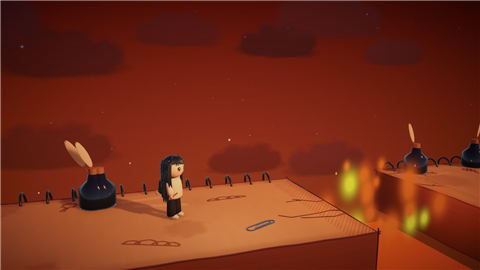
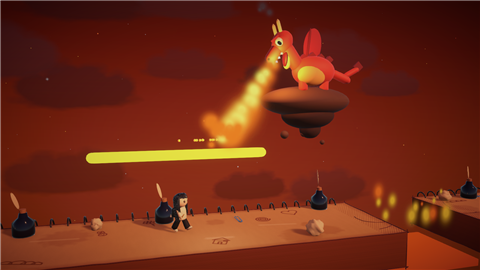
صفحة النار: تنينين على صخور طايرة ينفخون نار تلحق رويدا، وترسمين فوقها درع يصدها

diff --git a/Assets/Scripts/NewMechanics.cs b/Assets/Scripts/NewMechanics.cs
@@ -7,6 +7,7 @@ public static class NewFeatures
     public static void Build(Transform root, LevelData data, GameManager gm, System.Random rng)
     {
         foreach (Vector4 f in data.firePits) FirePit.Create(root, f, gm);
+        foreach (Vector4 d in data.dragons) Dragon.Create(root, d, gm);
         foreach (Vector3 p in data.pins) PinRow.Create(root, p, gm);
         foreach (Vector3 f in data.fans) FanZone.Create(root, f, gm);
         foreach (Vector4 p in data.portals) Portal.Create(root, new Vector3(p.x, p.y, 0f), new Vector3(p.z, p.w, 0f));
@@ -683,4 +684,264 @@ public class FragileInk : MonoBehaviour
         gm.Sound.PlayPoof();
         Destroy(gameObject);
     }
+}
+
+// ---------- التنين ----------
+
+// تنين شخبطة على صخرة طايرة: يتنفس، يرجع راسه، وينفخ نار مايلة على الطريق.
+// الخط اللي ترسمينه فوق راس رويدا يصير درع يصد النار (ويتفحم شوي شوي لين يحترق)
+public class Dragon : MonoBehaviour
+{
+    const float Period = 4.2f, WarnTime = 1.1f, BreathTime = 1.4f, BurnHeat = 4.5f, Speed = 16f;
+    float phase, start, nextFlame, nextSmoke;
+    bool wasWarn, wasBreath;
+    Vector3 target;
+    Transform head, jaw, wings, tail;
+    Light mouthLight;
+    Material fireMat, fireMat2, smokeMat;
+    static readonly Dictionary<InkMark, float> heat = new Dictionary<InkMark, float>();
+
+    public static void Create(Transform root, Vector4 spec, GameManager gm)
+    {
+        var go = new GameObject("Dragon");
+        go.transform.SetParent(root, false);
+        go.transform.position = new Vector3(spec.x, spec.y, 0f);
+        var d = go.AddComponent<Dragon>();
+        d.target = new Vector3(spec.z, 0f, 0f);
+        d.phase = spec.w;
+        d.start = Time.time;
+        heat.Clear();
+        d.Build(gm);
+    }
+
+    Transform Part(string name, PrimitiveType type, Transform parent, Vector3 pos, Vector3 scale, Material mat, float rotZ = 0f)
+    {
+        var t = LevelBuilder.Visual(name, type, parent, pos, scale, mat).transform;
+        t.localRotation = Quaternion.Euler(0f, 0f, rotZ);
+        return t;
+    }
+
+    void Build(GameManager gm)
+    {
+        Material rock = gm.Mat("Dragon Rock", new Color(0.36f, 0.27f, 0.25f), 0.15f);
+        Material rockDark = gm.Mat("Dragon Rock Dark", new Color(0.24f, 0.17f, 0.16f), 0.1f);
+        Material skin = gm.Mat("Dragon Skin", new Color(0.93f, 0.3f, 0.22f), 0.35f);
+        Material belly = gm.Mat("Dragon Belly", new Color(1f, 0.82f, 0.4f), 0.3f);
+        Material spike = gm.Mat("Dragon Spike", new Color(0.55f, 0.12f, 0.15f), 0.3f);
+        Material wing = gm.Mat("Dragon Wing", new Color(0.75f, 0.2f, 0.32f), 0.25f);
+        Material horn = gm.Mat("Dragon Horn", new Color(0.98f, 0.92f, 0.75f), 0.5f);
+        Material white = gm.Mat("Monster Eye", Color.white, 0.7f);
+        Material black = gm.Mat("Monster Pupil", new Color(0.05f, 0.04f, 0.06f), 0.9f);
+        Material mouthIn = gm.Mat("Dragon Mouth", new Color(0.35f, 0.05f, 0.08f), 0.4f);
+
+        // الصخرة الطايرة (مع حصى تحتها)
+        Part("Rock", PrimitiveType.Sphere, transform, new Vector3(0.3f, -0.45f, 0.3f), new Vector3(3.4f, 1.1f, 2f), rock);
+        Part("Rock Bottom", PrimitiveType.Sphere, transform, new Vector3(0.4f, -0.95f, 0.3f), new Vector3(2f, 1f, 1.5f), rockDark);
+        Part("Rock Tip", PrimitiveType.Sphere, transform, new Vector3(0.5f, -1.45f, 0.3f), new Vector3(0.8f, 0.7f, 0.7f), rockDark);
+        for (int i = 0; i < 3; i++)
+            Part("Pebble", PrimitiveType.Sphere, transform, new Vector3(-0.5f + i * 0.75f, -1.55f - i * 0.15f, 0.3f), Vector3.one * (0.3f - i * 0.06f), rock).gameObject.AddComponent<Bob>();
+
+        // الجسم والذيل والرجول
+        var body = new GameObject("Body").transform;
+        body.SetParent(transform, false);
+        Part("Torso", PrimitiveType.Sphere, body, new Vector3(0.45f, 0.6f, 0f), new Vector3(1.6f, 1.1f, 1f), skin);
+        Part("Belly", PrimitiveType.Sphere, body, new Vector3(0.25f, 0.45f, -0.3f), new Vector3(1.05f, 0.75f, 0.5f), belly);
+        for (int s = 0; s < 2; s++)
+            Part("Leg", PrimitiveType.Capsule, body, new Vector3(-0.05f + s * 0.85f, 0.15f, -0.25f + s * 0.1f), new Vector3(0.32f, 0.3f, 0.32f), skin);
+        for (int i = 0; i < 4; i++)
+            Part("Back Spike", PrimitiveType.Cube, body, new Vector3(0.05f + i * 0.33f, 1.15f - Mathf.Abs(i - 1.2f) * 0.07f, 0f), Vector3.one * 0.2f, spike, 45f);
+        tail = new GameObject("Tail").transform;
+        tail.SetParent(body, false);
+        tail.localPosition = new Vector3(1.15f, 0.5f, 0f);
+        Part("Tail 1", PrimitiveType.Capsule, tail, new Vector3(0.35f, -0.05f, 0f), new Vector3(0.3f, 0.45f, 0.3f), skin, 70f);
+        Part("Tail 2", PrimitiveType.Capsule, tail, new Vector3(0.8f, 0.12f, 0f), new Vector3(0.2f, 0.35f, 0.2f), skin, 120f);
+        Part("Tail Tip", PrimitiveType.Cube, tail, new Vector3(1.07f, 0.35f, 0f), new Vector3(0.28f, 0.28f, 0.08f), spike, 45f);
+
+        // الجناحات تحت الجسم ورا (ترفرف)
+        wings = new GameObject("Wings").transform;
+        wings.SetParent(body, false);
+        wings.localPosition = new Vector3(0.55f, 0.95f, 0.35f);
+        Part("Wing", PrimitiveType.Sphere, wings, new Vector3(0.2f, 0.55f, 0f), new Vector3(0.7f, 1.3f, 0.08f), wing, -25f);
+        Part("Wing Bone", PrimitiveType.Capsule, wings, new Vector3(0.05f, 0.65f, -0.05f), new Vector3(0.09f, 0.6f, 0.09f), spike, -25f);
+
+        // الرقبة والراس
+        Part("Neck", PrimitiveType.Capsule, body, new Vector3(-0.35f, 1.05f, 0f), new Vector3(0.48f, 0.6f, 0.48f), skin, 35f);
+        head = new GameObject("Head").transform;
+        head.SetParent(transform, false);
+        head.localPosition = new Vector3(-0.7f, 1.55f, 0f);
+        Part("Skull", PrimitiveType.Sphere, head, new Vector3(0f, 0.05f, 0f), new Vector3(0.85f, 0.7f, 0.7f), skin);
+        Part("Snout", PrimitiveType.Capsule, head, new Vector3(-0.5f, 0.08f, 0f), new Vector3(0.42f, 0.38f, 0.45f), skin, 90f);
+        for (int s = -1; s <= 1; s += 2)
+            Part("Nostril", PrimitiveType.Sphere, head, new Vector3(-0.82f, 0.18f, s * 0.12f - 0.08f), Vector3.one * 0.08f, black);
+        Part("Eye", PrimitiveType.Sphere, head, new Vector3(-0.15f, 0.22f, -0.3f), new Vector3(0.28f, 0.3f, 0.12f), white);
+        Part("Pupil", PrimitiveType.Sphere, head, new Vector3(-0.2f, 0.2f, -0.36f), new Vector3(0.12f, 0.17f, 0.05f), black);
+        Part("Brow", PrimitiveType.Cube, head, new Vector3(-0.15f, 0.4f, -0.3f), new Vector3(0.32f, 0.07f, 0.06f), spike, -15f);
+        for (int s = 0; s < 2; s++)
+            Part("Horn", PrimitiveType.Capsule, head, new Vector3(0.2f + s * 0.15f, 0.45f, 0.1f - s * 0.2f), new Vector3(0.12f, 0.25f, 0.12f), horn, -40f);
+        jaw = new GameObject("Jaw").transform;
+        jaw.SetParent(head, false);
+        jaw.localPosition = new Vector3(-0.05f, -0.12f, 0f);
+        Part("Jaw Inside", PrimitiveType.Sphere, jaw, new Vector3(-0.4f, 0.02f, -0.05f), new Vector3(0.6f, 0.15f, 0.35f), mouthIn);
+        Part("Jaw Skin", PrimitiveType.Capsule, jaw, new Vector3(-0.42f, -0.08f, 0f), new Vector3(0.24f, 0.36f, 0.36f), belly, 90f);
+        for (int t = 0; t < 3; t++)
+            Part("Tooth", PrimitiveType.Cube, head, new Vector3(-0.72f + t * 0.17f, -0.1f, -0.15f), Vector3.one * 0.07f, white, 45f);
+
+        // ضو بالفم
+        mouthLight = new GameObject("Mouth Light").AddComponent<Light>();
+        mouthLight.transform.SetParent(head, false);
+        mouthLight.transform.localPosition = new Vector3(-0.9f, 0f, -0.6f);
+        mouthLight.type = LightType.Point;
+        mouthLight.color = new Color(1f, 0.55f, 0.18f);
+        mouthLight.range = 6f;
+        mouthLight.intensity = 0f;
+
+        var soft = NightSky.DotTexture();
+        fireMat = NightSky.Transparent("Dragon Flame", soft, new Color(2.4f, 0.45f, 0.06f, 0.9f));
+        fireMat2 = NightSky.Transparent("Dragon Flame Core", soft, new Color(2.6f, 1.6f, 0.4f, 0.95f));
+        smokeMat = NightSky.Transparent("Dragon Smoke", soft, new Color(0.35f, 0.32f, 0.33f, 0.55f));
+    }
+
+    float Local => Mathf.Repeat(Time.time - start + phase, Period);
+    // بداية الدورة: ينفخ. آخر الدورة: يحذر (يرجع راسه ويطلع دخان)
+    bool Breathing => Local < BreathTime;
+    bool Warning => Local > Period - WarnTime;
+
+    Vector3 Mouth => head.TransformPoint(new Vector3(-0.95f, 0f, 0f));
+    // وين يطالع: رويدا (بين حدود)، ووقت النفخ يلحقها بسرعة قريبة من مشيها
+    Vector3 aimPoint;
+    Vector3 Aim => (aimPoint - head.position).normalized;
+
+    void Track(GameManager gm, bool breathing)
+    {
+        float lo = target.x - 3f, hi = transform.position.x - 2.5f;
+        float want = gm.Rowaida != null ? Mathf.Clamp(gm.Rowaida.transform.position.x + 0.3f, lo, hi) : target.x;
+        if (aimPoint == Vector3.zero) aimPoint = new Vector3(lo, 0f, 0f);
+        aimPoint.x = breathing ? Mathf.MoveTowards(aimPoint.x, want, 3.1f * Time.deltaTime) : Mathf.Lerp(aimPoint.x, want, Time.deltaTime * 4f);
+    }
+
+    void Update()
+    {
+        GameManager gm = GameManager.Instance;
+        if (gm == null) return;
+        bool breathing = Breathing, warning = Warning;
+        Track(gm, breathing);
+        if (gm.Rowaida != null)
+        {
+            float dx = gm.Rowaida.transform.position.x - transform.position.x;
+            if (dx > -14f && dx < 3f) CameraFollow.PullRequest = Mathf.Max(CameraFollow.PullRequest, 1f);
+        }
+        float t = Time.time;
+
+        // الحركة: يتنفس، الجناح يرفرف، الذيل يتمايل
+        wings.localRotation = Quaternion.Euler(0f, 0f, Mathf.Sin(t * (warning ? 9f : 2.5f)) * 18f);
+        tail.localRotation = Quaternion.Euler(0f, 0f, Mathf.Sin(t * 1.7f) * 12f);
+
+        float aimAngle = Mathf.Atan2(Aim.y, Aim.x) * Mathf.Rad2Deg - 180f;
+        float headAngle, jawOpen;
+        if (breathing) { headAngle = aimAngle + Mathf.Sin(t * 20f) * 2f; jawOpen = 32f; }
+        else if (warning)
+        {
+            float k = Mathf.InverseLerp(Period - WarnTime, Period, Local);
+            headAngle = Mathf.Lerp(-10f, -38f, k);   // يرجع راسه لورا ويشهق
+            jawOpen = 6f + k * 10f;
+        }
+        else { headAngle = -8f + Mathf.Sin(t * 1.3f) * 4f; jawOpen = 0f; }
+        head.localRotation = Quaternion.Slerp(head.localRotation, Quaternion.Euler(0f, 0f, headAngle), Time.deltaTime * (breathing ? 18f : 6f));
+        jaw.localRotation = Quaternion.Slerp(jaw.localRotation, Quaternion.Euler(0f, 0f, jawOpen), Time.deltaTime * 12f);
+        mouthLight.intensity = breathing ? 6f + Mathf.PerlinNoise(t * 9f, 1f) * 3f : warning ? 1.5f + Mathf.Sin(t * 25f) : 0f;
+
+        if (warning && !wasWarn) gm.Sound.PlayRumble(0.45f);
+        if (breathing && !wasBreath) { gm.Sound.PlayPoof(); gm.Sound.PlayRumble(0.6f); }
+        wasWarn = warning; wasBreath = breathing;
+
+        // دخان من الخشم وهو يحذر
+        if (warning && t >= nextSmoke)
+        {
+            nextSmoke = t + 0.09f;
+            var s = LevelBuilder.Visual("Smoke", PrimitiveType.Quad, null, head.TransformPoint(new Vector3(-0.85f, 0.2f, -0.1f)), Vector3.one * Random.Range(0.3f, 0.5f), smokeMat, false);
+            var fx = s.AddComponent<FxParticle>();
+            fx.velocity = new Vector3(Random.Range(-0.6f, 0.2f), Random.Range(0.8f, 1.4f), 0f);
+            fx.grow = 1.8f; fx.drag = 1f; fx.life = 0.8f;
+        }
+
+        if (!breathing) return;
+
+        // النفخة: توقف عند أول درع (خط حبر) أو الأرض
+        Vector3 from = Mouth, dir = (aimPoint - from).normalized;
+        float reach = 14f;
+        InkMark shield = null;
+        foreach (RaycastHit h in Physics.SphereCastAll(from, 0.3f, dir, reach, ~0, QueryTriggerInteraction.Ignore))
+        {
+            var mark = h.collider.GetComponentInParent<InkMark>();
+            if (h.collider.GetComponentInParent<RowaidaController>() != null) continue;
+            if (mark == null && h.collider.attachedRigidbody != null) continue;   // أشياء تتحرك (بالونات، وحوش) ما توقفها
+            if (h.distance <= 0f || h.distance >= reach) continue;
+            reach = h.distance;
+            shield = mark;
+        }
+        Vector3 end = from + dir * reach;
+
+        if (t >= nextFlame)
+        {
+            nextFlame = t + 0.01f;
+            for (int i = 0; i < 3; i++)
+            {
+                bool core = Random.value < 0.35f;
+                var p = LevelBuilder.Visual("Dragon Flame", PrimitiveType.Quad, null, from + (Vector3)Random.insideUnitCircle * 0.1f + new Vector3(0f, 0f, -0.3f),
+                    Vector3.one * (core ? 0.75f : 1.05f), core ? fireMat2 : fireMat, false);
+                var fx = p.AddComponent<FxParticle>();
+                float speed = Speed * Random.Range(0.85f, 1.1f);
+                fx.velocity = (dir + (Vector3)Random.insideUnitCircle * 0.08f) * speed;
+                fx.grow = core ? 1.4f : 2.2f;
+                fx.life = Mathf.Max(0.05f, reach / speed * 1.1f);
+            }
+            // شرار وين ما توقف
+            // وين ما توقف: لهب يتطاير لفوق
+            var splash = LevelBuilder.Visual("Flame Splash", PrimitiveType.Quad, null, end + new Vector3(Random.Range(-0.4f, 0.4f), 0.1f, -0.4f), Vector3.one * Random.Range(0.6f, 1f), fireMat, false);
+            var sfx = splash.AddComponent<FxParticle>();
+            sfx.velocity = new Vector3(Random.Range(-1.5f, 1.5f), Random.Range(1.5f, 3f), 0f);
+            sfx.grow = 1f; sfx.drag = 2f; sfx.life = 0.35f;
+            if (Random.value < 0.4f) Fx.Sparkle(end, new Color(1f, 0.55f, 0.15f), 2);
+        }
+
+        // الدرع يسخن ويتفحم، وبعدين يحترق
+        if (shield != null)
+        {
+            heat.TryGetValue(shield, out float h0);
+            float h1 = h0 + Time.deltaTime;
+            heat[shield] = h1;
+            var rend = shield.GetComponent<MeshRenderer>();
+            if (rend != null)
+            {
+                rend.material.color = Color.Lerp(rend.material.color, new Color(0.12f, 0.06f, 0.05f), Time.deltaTime * 0.6f);
+            }
+            if (h1 >= BurnHeat)
+            {
+                Fx.Sparkle(end, new Color(1f, 0.45f, 0.15f), 20);
+                gm.Sound.PlayPoof();
+                heat.Remove(shield);
+                Destroy(shield.gameObject);
+            }
+        }
+
+        // رويدا بطريق النار؟
+        RowaidaController rowaida = gm.Rowaida;
+        if (rowaida == null || !gm.IsPlaying || Local < 0.12f) return;
+        Vector3 r = rowaida.transform.position + Vector3.up * 0.3f;
+        float along = Mathf.Clamp(Vector3.Dot(r - from, dir), 0f, reach);
+        if ((from + dir * along - r).magnitude < 0.7f)
+        {
+            Fx.Sparkle(r, new Color(1f, 0.5f, 0.2f), 16);
+            gm.KillRowaida();
+        }
+    }
+}
+
+// حصى تطفو تحت الصخرة
+public class Bob : MonoBehaviour
+{
+    Vector3 home;
+    float seed;
+    void Start() { home = transform.localPosition; seed = Random.value * 10f; }
+    void Update() => transform.localPosition = home + Vector3.up * Mathf.Sin(Time.time * 1.6f + seed) * 0.12f;
 }

diff --git a/Assets/Scripts/LevelData.cs b/Assets/Scripts/LevelData.cs
@@ -133,6 +133,7 @@ public class LevelData
     public bool memoryClouds;                               // الصفحة الأخيرة: غيوم فيها ذكريات (صور ورسومات)
     public bool balloonInk;                                 // البالونات: الأشكال المغلقة تصير بالونات تطير برويدا
     public List<Vector4> firePits = new List<Vector4>();    // النار: حفر نار (من x، لـ x، كل كم ثانية، تأخير البداية)
+    public List<Vector4> dragons = new List<Vector4>();     // النار: تنين على صخرة (x، y، وين ينفخ x، تأخير)
     public List<Vector4> portals = new List<Vector4>();     // البوابات: (دخول x، دخول y، خروج x، خروج y) على سطح الأرض
     public float maxSpan;                                   // الوادي: الخط أطول من كذا ينكسر تحت رويدا (0 = ما فيه)
     public List<Vector3> pegs = new List<Vector3>();        // الوادي: حجارة طايرة (x، سطحها، عرضها)
@@ -469,34 +470,41 @@ public static class Levels
         }
     }
 
-    // صفحة النار: حفر نار تشتعل وتنطفي. رويدا تستنى عند الطرف، وأنتِ ترسمين الجسر أول ما تنطفي النار
+    // صفحة النار: حفر نار تشتغل وتطفي، وتنينين على صخور طايرة ينفخون نار مايلة.
+    // الجسر فوق الحفرة أول ما تنطفي، والدرع (خط فوق راسها) يصد نفخة التنين
     static LevelData FireLevel()
     {
-        return new LevelData
+        var level = new LevelData
         {
             title = "صفحة النار",
             theme = LevelTheme.Fire(),
-            subtitle = "النار تحرق الرسم! ارسمي الجسر أول ما تنطفي",
+            subtitle = "التنين ينفخ نار! ارسمي فوق راسك درع يصدها",
             spawn = new Vector3(-5f, 1f, 0f),
-            door = new Vector3(42f, 0f, 0f),
-            ink = 30f,
+            door = new Vector3(49f, 0f, 0f),
+            ink = 32f,
             blocks =
             {
                 Page(-7f, 4f),
-                Page(7f, 12f),
-                Page(15.5f, 19f),
-                Page(22f, 31f),
-                Page(35f, 45f),
+                Page(7f, 24f),
+                Page(27.5f, 38f),
+                Page(41.5f, 52f),
             },
             // من x، لـ x، كل كم ثانية تشتعل، تأخير
             firePits =
             {
                 new Vector4(4f, 7f, 4.6f, 0f),
-                new Vector4(12f, 15.5f, 4.6f, 1.5f),
-                new Vector4(19f, 22f, 4.2f, 3f),
-                new Vector4(31f, 35f, 5f, 0.8f),
+                new Vector4(24f, 27.5f, 4.4f, 1.5f),
+                new Vector4(38f, 41.5f, 5f, 0.8f),
+            },
+            dragons =
+            {
+                new Vector4(21f, 4.8f, 13f, 0f),
+                new Vector4(37.5f, 5.2f, 31f, 2.1f),
             },
         };
+        level.hints.Add(new HintLine(new Vector3(14f, 2.6f, 0f), new Vector3(19.6f, 2.6f, 0f), new Color(1f, 0.6f, 0.2f)));
+        level.hints.Add(new HintLine(new Vector3(31.2f, 2.6f, 0f), new Vector3(36f, 2.6f, 0f), new Color(1f, 0.6f, 0.2f)));
+        return level;
     }
 
     // صفحة البوابات: البوابة الزرقا توديك للبرتقالية. وحدة فوق الجدار، ووحدة تطلعك فوق حفرة (جهزي جسر تحتها)

diff --git a/Assets/Scripts/CameraFollow.cs b/Assets/Scripts/CameraFollow.cs
@@ -13,6 +13,10 @@ public class CameraFollow : MonoBehaviour
     Vector3 velocity;
     float shake, shakeTime;
 
+    // شي كبير قريب (مثل التنين) يطلب الكاميرا ترجع لورا وتطلع فوق شوي عشان يبان
+    public static float PullRequest;
+    float pull, pullVel;
+
     public void SetTarget(Transform newTarget, bool snap)
     {
         target = newTarget;
@@ -37,6 +41,8 @@ public class CameraFollow : MonoBehaviour
     {
         if (target == null) return;
         focus = Vector3.SmoothDamp(focus, Focus(), ref velocity, smoothTime);
+        pull = Mathf.SmoothDamp(pull, PullRequest, ref pullVel, 0.6f);
+        PullRequest = 0f;
         Apply();
     }
 
@@ -58,7 +64,7 @@ public class CameraFollow : MonoBehaviour
             float k = shake * Mathf.Clamp01(shakeTime * 4f);
             jitter = new Vector3(Mathf.PerlinNoise(t, 0.3f) - 0.5f, Mathf.PerlinNoise(0.7f, t) - 0.5f, 0f) * 2f * k;
         }
-        transform.position = focus + offset + jitter;
-        transform.LookAt(focus + lookOffset + jitter * 0.5f);
+        transform.position = focus + offset + new Vector3(0f, 1.6f, -5f) * pull + jitter;
+        transform.LookAt(focus + lookOffset + new Vector3(1f, 1.8f, 0f) * pull + jitter * 0.5f);
     }
 }
